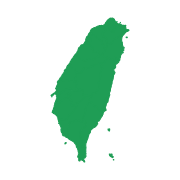
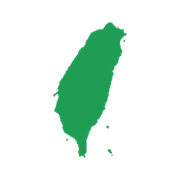
小圖示改成透明背景、台灣放大（iPhone 主畫面圖示保留白底）
Claude-Session: https://claude.ai/code/session_012z3Xxkk3r5xMt4ckYrB6m8

Changed region(s): [[0.2778, 0.0833, 0.7222, 0.9167], [0.5833, 0.8056, 0.6389, 0.8889], [0.5833, 0.6944, 0.6111, 0.75]]

diff --git a/scripts/build_icons.py b/scripts/build_icons.py
@@ -1,5 +1,5 @@
 #!/usr/bin/env python3
-"""用 reservoir/taiwan-map.json 的縣市界線畫網站小圖示（白底綠色台灣），只在要改圖示時手動執行一次：
+"""用 reservoir/taiwan-map.json 的縣市界線畫網站小圖示（透明背景、綠色台灣），只在要改圖示時手動執行一次：
     python3 scripts/build_icons.py
 先畫成 SVG，再用 Chromium 轉成 PNG 與 favicon.ico（網站左上角與瀏覽器分頁用）。
 """
@@ -17,14 +17,12 @@ paths = list(m["counties"].values())
 nums = [float(x) for p in paths for x in re.findall(r"-?\d+\.?\d*", p)]
 xs, ys = nums[0::2], nums[1::2]
 x0, x1, y0, y1 = min(xs), max(xs), min(ys), max(ys)
-# 台灣是直長形：放在正方形中間，上下留 10%
-side = (y1 - y0) / 0.8
+# 台灣是直長形：放在正方形中間，上下只留一點點
+side = (y1 - y0) / 0.96
 cx, cy = (x0 + x1) / 2, (y0 + y1) / 2
 vb = f"{cx - side / 2:.1f} {cy - side / 2:.1f} {side:.1f} {side:.1f}"
-r = side * 0.22
 d = "".join(paths)
 svg = (f'<svg xmlns="http://www.w3.org/2000/svg" viewBox="{vb}">'
-       f'<rect x="{cx - side / 2:.1f}" y="{cy - side / 2:.1f}" width="{side:.1f}" height="{side:.1f}" rx="{r:.1f}" fill="#fff"/>'
        f'<path d="{d}" fill="{GREEN}" stroke="{GREEN}" stroke-width="{side / 160:.1f}" stroke-linejoin="round"/></svg>')
 tmp = Path(tempfile.mkdtemp()) / "icon.svg"
 tmp.write_text(svg, encoding="utf-8")
@@ -49,4 +47,9 @@ subprocess.run(["node", "-e", js, str(tmp), str(ROOT)], check=True)
 from PIL import Image  # noqa: E402
 Image.open(ROOT / "favicon-48.png").save(ROOT / "favicon.ico", sizes=[(16, 16), (32, 32), (48, 48)])
 (ROOT / "favicon-48.png").unlink()
+# iPhone 主畫面圖示不能透明（會變黑底）：白底、四周留白
+t = Image.open(ROOT / "apple-touch-icon.png").convert("RGBA").resize((140, 140), Image.LANCZOS)
+bg = Image.new("RGBA", (180, 180), "white")
+bg.alpha_composite(t, (20, 20))
+bg.convert("RGB").save(ROOT / "apple-touch-icon.png")
 print("favicon.ico、favicon-32.png、apple-touch-icon.png、icon-192.png")

diff --git a/scripts/site_nav.py b/scripts/site_nav.py
@@ -24,7 +24,7 @@ body { margin: 0; }
 .menu-btn:hover { background: var(--chip); }
 .menu-btn svg { width: 24px; height: 24px; }
 .sitename { display: flex; align-items: center; gap: 8px; color: var(--fg); text-decoration: none; font-weight: 700; font-size: 17px; letter-spacing: .02em; white-space: nowrap; min-width: 0; }
-.sitename img { width: 28px; height: 28px; border-radius: 7px; flex: none; }
+.sitename img { width: 28px; height: 28px; flex: none; }
 .sitemenu { position: absolute; top: 100%; left: 0; width: min(300px, 100vw); max-height: calc(100vh - 52px); overflow: auto; background: var(--surface); border: 1px solid var(--line); border-top: 0; border-radius: 0 0 14px 0; box-shadow: 0 8px 24px rgba(12,30,46,.14); padding: 8px; }
 .sitemenu ul { list-style: none; margin: 0; padding: 0; display: grid; gap: 2px; }
 .sitemenu a, .sitemenu span { display: flex; justify-content: space-between; align-items: center; padding: 10px 12px; border-radius: 10px; color: var(--fg); text-decoration: none; font-size: 16px; }
